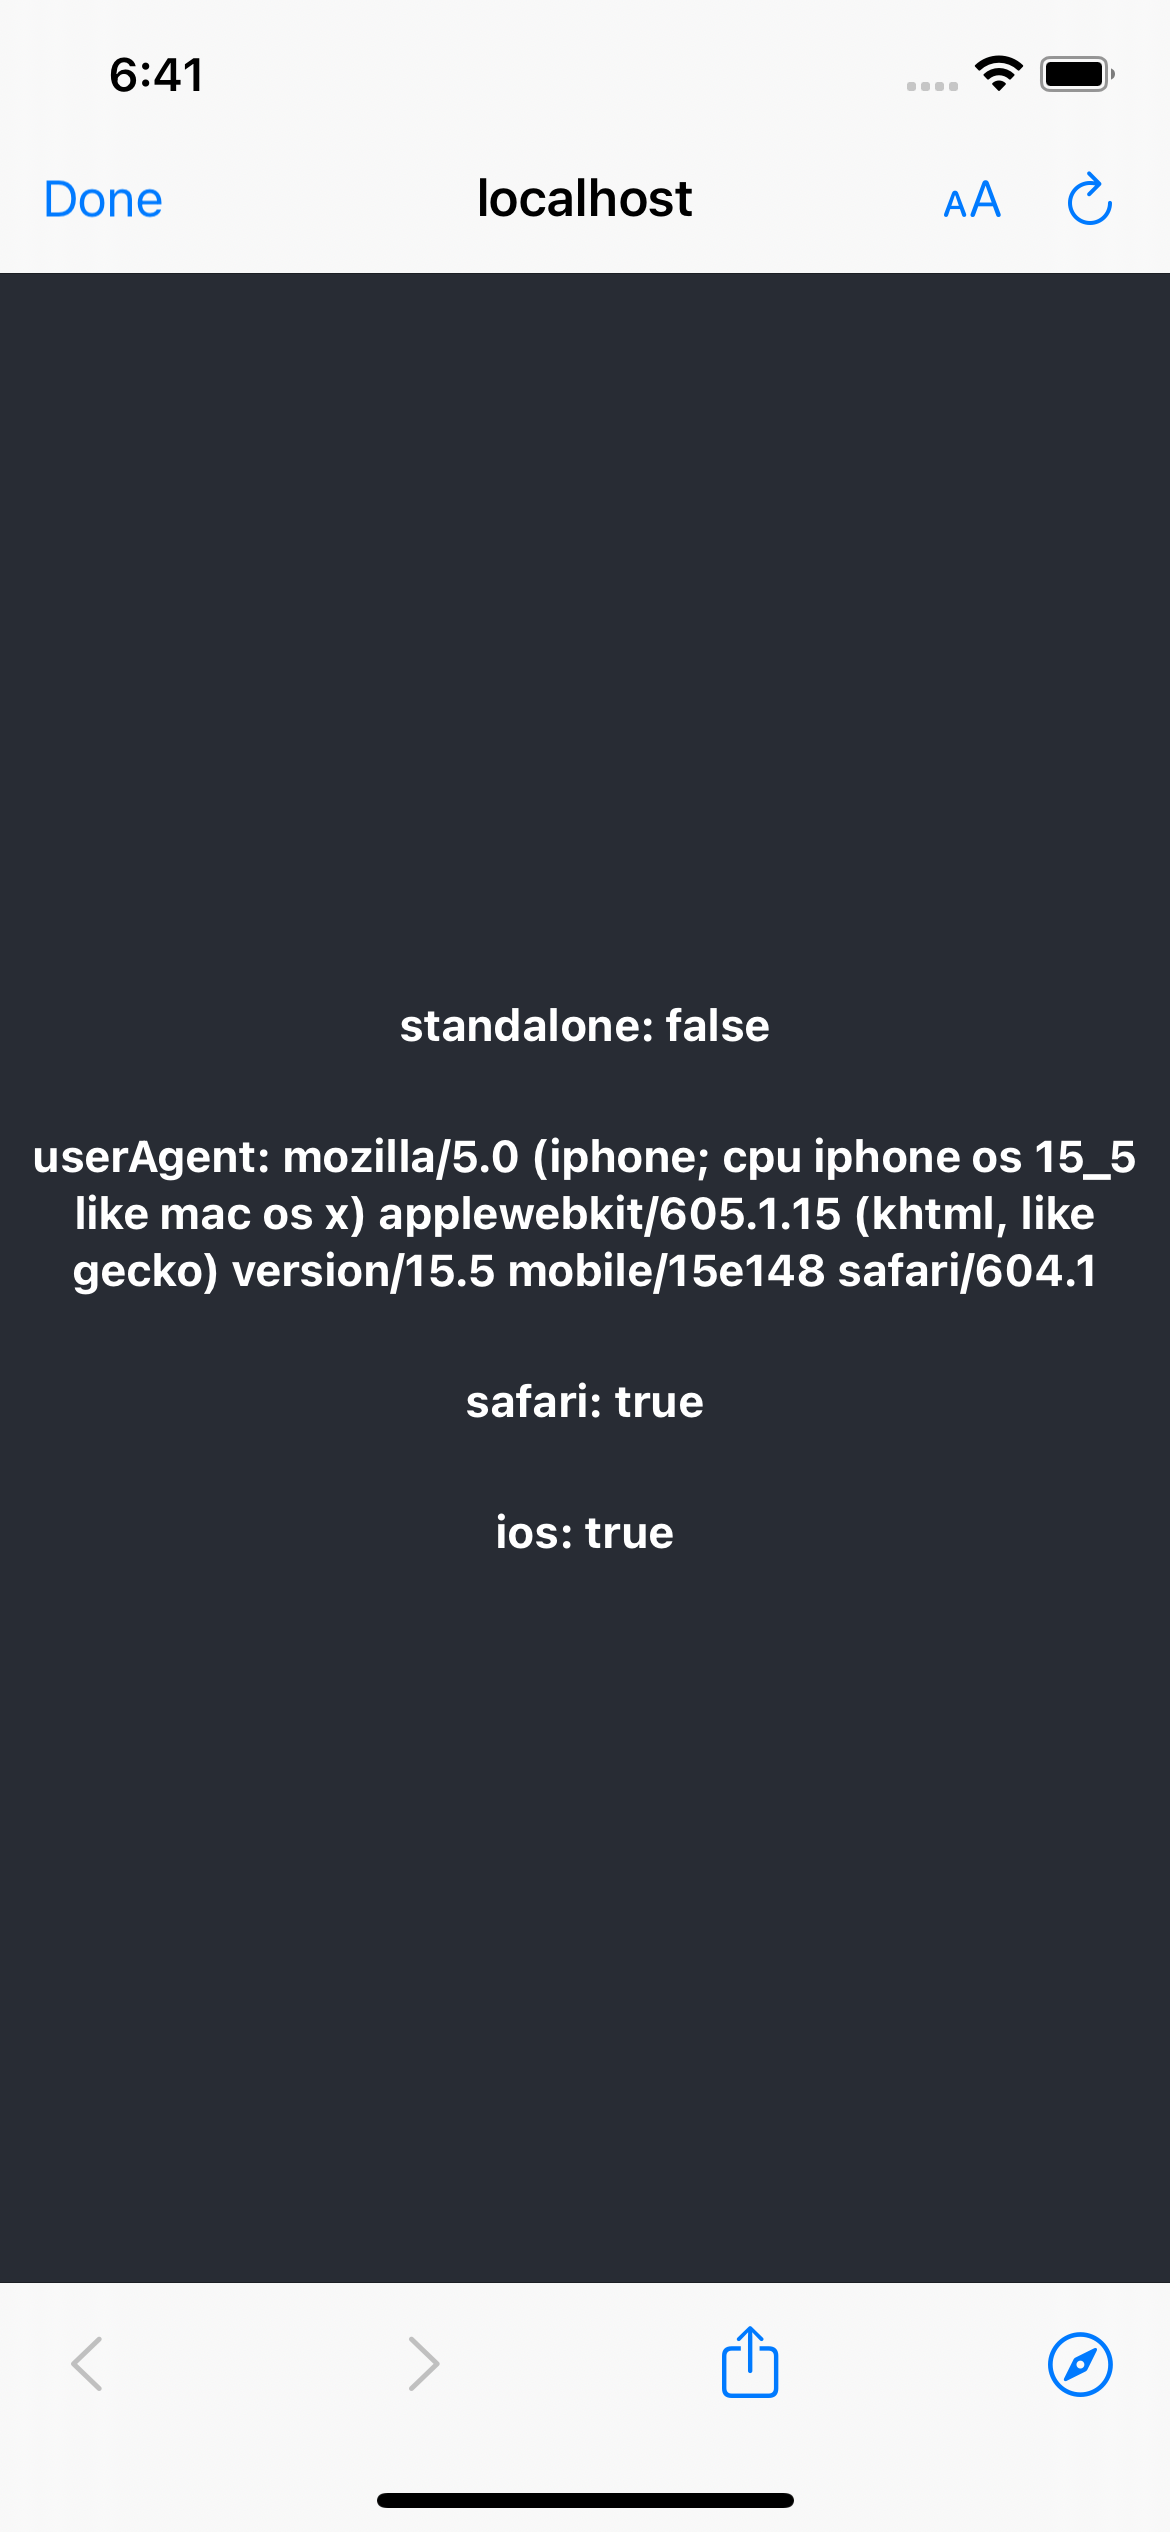
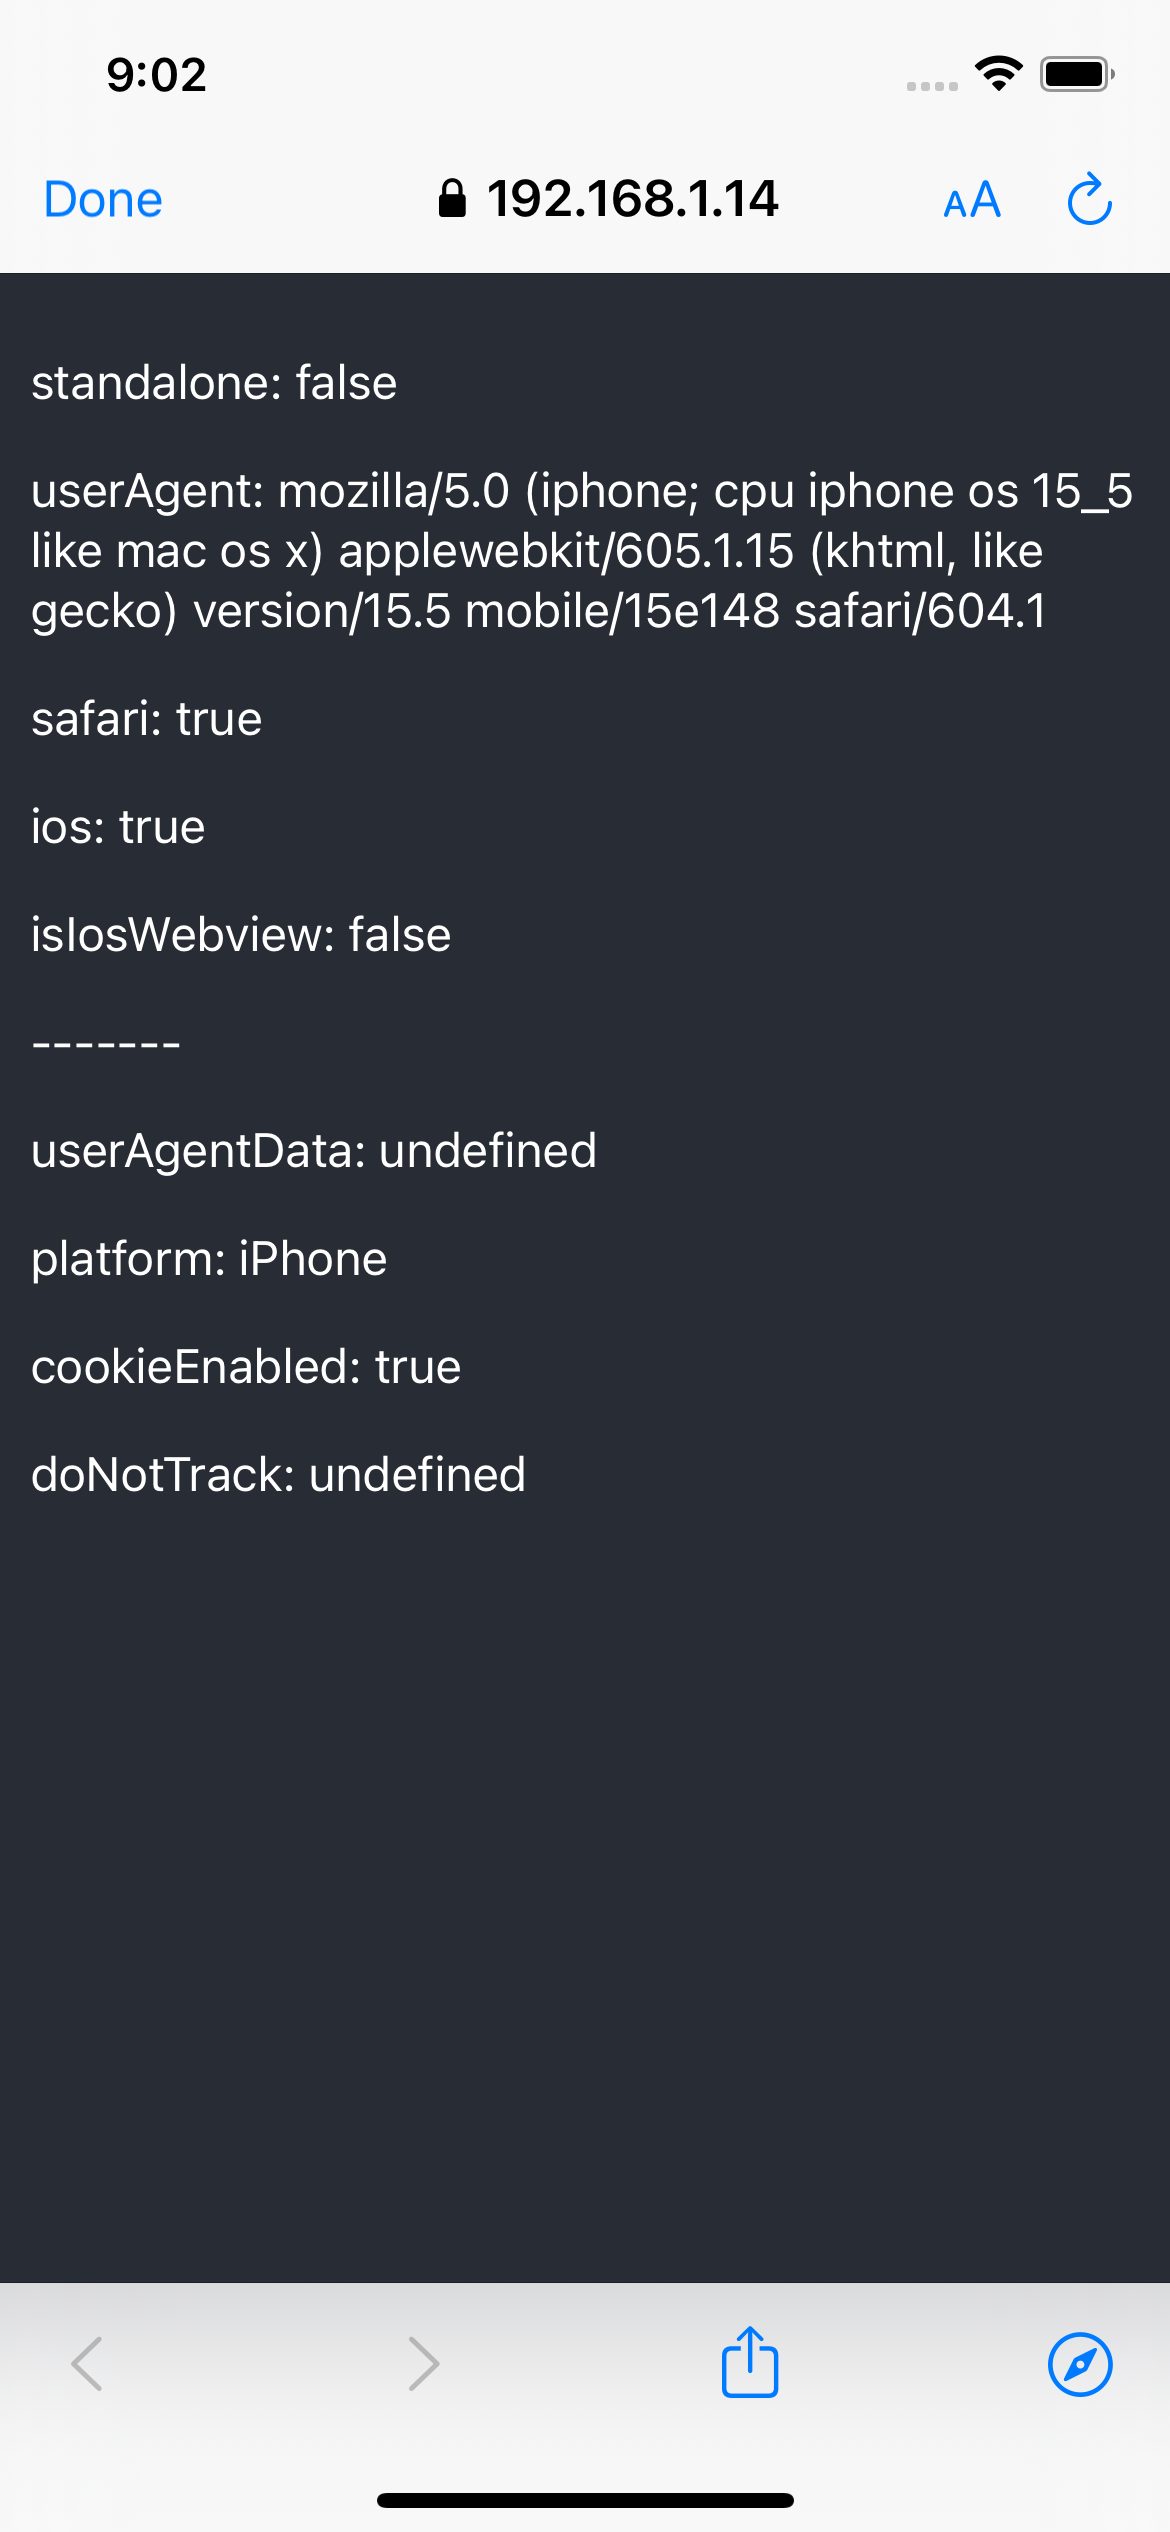
update

diff --git a/web/src/App.js b/web/src/App.js
@@ -1,19 +1,63 @@
-import logo from "./logo.svg";
+import React, { useRef } from "react";
 import "./App.css";
 
-const App = () => {
+const getWebView = () => {
   const standalone = window.navigator.standalone;
   const userAgent = window.navigator.userAgent.toLowerCase();
   const safari = /safari/.test(userAgent);
   const ios = /iphone|ipod|ipad/.test(userAgent);
+
+  if (ios) {
+    if (!standalone && safari) {
+      //browser
+      return "ios-browser";
+    } else if (standalone && !safari) {
+      //standalone
+      return "ios-standalone";
+    } else if (!standalone && !safari) {
+      //uiwebview
+      return "ios-webview";
+    }
+  } else {
+    return false;
+  }
+};
+
+const App = () => {
+  const windowNavRef = useRef(window.navigator);
+  windowNavRef.current = window.navigator;
+
+  const standalone = window.navigator.standalone;
+  const userAgent = window.navigator.userAgent.toLowerCase();
+  const safari = /safari/.test(userAgent);
+  const ios = /iphone|ipod|ipad/.test(userAgent);
+  const view = getWebView();
+  const isIosWebview = view === "ios-webview";
+  const userAgentData = window.navigator.userAgentData;
+  console.log("🚀 ~ userAgentData", JSON.stringify(userAgentData));
+  console.log(window.navigator);
+
+  // const windowObj = { ...window.navigator };
+  // console.log("🚀 ~ windowObj", windoObj);
+  // console.log(window.navigator);
+  // console.log(
+  //   "🚀 ~ windowNavRef.current",
+  //   JSON.stringify(windowNavRef.current)
+  // );
   return (
     <div className="App">
       <header className="App-header">
-        <div style={{ justifyContent: "center" }}>
-          <h5>{`standalone: ${standalone}`}</h5>
-          <h5>{`userAgent:  ${userAgent}`}</h5>
-          <h5>{`safari: ${safari.toString()}`}</h5>
-          <h5>{`ios: ${ios}`}</h5>
+        <div>
+          <p>{`standalone: ${standalone}`}</p>
+          <p>{`userAgent:  ${userAgent}`}</p>
+          <p>{`safari: ${safari}`}</p>
+          <p>{`ios: ${ios}`}</p>
+          <p>{`isIosWebview: ${isIosWebview}`}</p>
+          <p>-------</p>
+          <p>{`userAgentData:  ${JSON.stringify(userAgentData)}`}</p>
+          <p>{`platform:  ${window.navigator.platform}`}</p>
+          <p>{`cookieEnabled:  ${window.navigator.cookieEnabled}`}</p>
+          <p>{`doNotTrack: ${window.navigator.doNotTrack}`}</p>
         </div>
       </header>
     </div>

diff --git a/mobile/src/App.tsx b/mobile/src/App.tsx
@@ -5,7 +5,7 @@ import * as WebBrowser from 'expo-web-browser';
 
 interface Props {}
 
-const link = 'http://localhost:3000';
+const link = 'https://192.168.1.14:3000';
 
 const App = (props: Props) => {
   const onPressAuthSesh = async () => {
@@ -20,19 +20,7 @@ const App = (props: Props) => {
     <View style={styles.container}>
       <Button title="open auth session" onPress={onPressAuthSesh} />
       <Button title="open web browser" onPress={onPressOpenBrowser} />
-      <WebView
-        //        originWhitelist={['*']}
-        source={{uri: link}}
-        style={{marginTop: 20}}
-        onError={syntheticEvent => {
-          const {nativeEvent} = syntheticEvent;
-          console.log('WebView error: ', nativeEvent);
-        }}
-        onLoad={syntheticEvent => {
-          console.log('🚀 ~ on load');
-        }}
-        onHttpError={() => console.log('http error')}
-      />
+      <WebView source={{uri: link}} style={{marginTop: 20}} />
     </View>
   );
 };

diff --git a/web/src/index.js b/web/src/index.js
@@ -1,15 +1,11 @@
-import React from 'react';
-import ReactDOM from 'react-dom/client';
-import './index.css';
-import App from './App';
-import reportWebVitals from './reportWebVitals';
+import React from "react";
+import ReactDOM from "react-dom/client";
+import "./index.css";
+import App from "./App";
+import reportWebVitals from "./reportWebVitals";
 
-const root = ReactDOM.createRoot(document.getElementById('root'));
-root.render(
-  <React.StrictMode>
-    <App />
-  </React.StrictMode>
-);
+const root = ReactDOM.createRoot(document.getElementById("root"));
+root.render(<App />);
 
 // If you want to start measuring performance in your app, pass a function
 // to log results (for example: reportWebVitals(console.log))

diff --git a/web/src/App.css b/web/src/App.css
@@ -1,38 +1,8 @@
-.App {
-  text-align: center;
-}
-
-.App-logo {
-  height: 40vmin;
-  pointer-events: none;
-}
-
-@media (prefers-reduced-motion: no-preference) {
-  .App-logo {
-    animation: App-logo-spin infinite 20s linear;
-  }
-}
-
 .App-header {
   background-color: #282c34;
   min-height: 100vh;
   display: flex;
   flex-direction: column;
-  align-items: center;
-  justify-content: center;
-  font-size: calc(10px + 2vmin);
   color: white;
-}
-
-.App-link {
-  color: #61dafb;
-}
-
-@keyframes App-logo-spin {
-  from {
-    transform: rotate(0deg);
-  }
-  to {
-    transform: rotate(360deg);
-  }
+  padding: 10px;
 }

diff --git a/README.md b/README.md
@@ -2,8 +2,13 @@
 
 [Expo web browser](https://docs.expo.dev/versions/v46.0.0/sdk/webbrowser/) provides access to the system's web browser and supports handling redirects.
 
-For authentication, it uses SFAuthenticationSession under the hood.
+For authentication, it uses [ASWebAuthenticationSession](https://developer.apple.com/documentation/authenticationservices/aswebauthenticationsession) under the hood.
 
 | Auth Session Browser      	| Safari Browser       	| In-app WebView      	|
 |---------------------------	|----------------------	|---------------------	|
 | ![1](authsesh.png)           	| ![2](safari.png)      | ![3](inapp.png)    	|
+
+
+### Web
+
+<img src="web.png" alt="screenshot" width="500"/>
